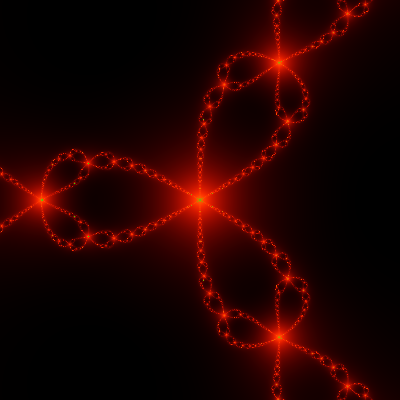
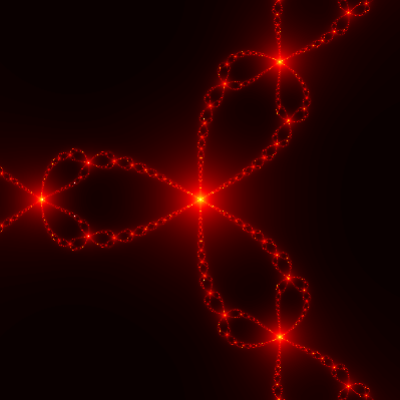
change colormap in newton.py

diff --git a/src/misc/newton.py b/src/misc/newton.py
@@ -1,5 +1,5 @@
 import numpy as np
-from PIL import Image
+import matplotlib.pyplot as plt
 from numba import jit
 
 
@@ -30,14 +30,11 @@ def render(imgsize):
     y = np.linspace(1, -1, imgsize)
     z = x[None, :] + y[:, None] * 1j
     img = np.frompyfunc(iterate, 1, 1)(z).astype(np.float)
-    img /= np.max(img)
-
-    # self-defined rgb channels, a mimick of matplotlib's hot colormap
-    red = np.sin(img * np.pi)
-    green = img * img
-    blue = np.zeros_like(img)
-    image = np.dstack((red, green, blue))
-    Image.fromarray(np.uint8(image*255)).save('newton.png')
+    fig = plt.figure(figsize=(imgsize/100.0, imgsize/100.0), dpi=100)
+    ax = fig.add_axes([0, 0, 1, 1], aspect=1)
+    ax.axis('off')
+    ax.imshow(img, cmap='hot')
+    fig.savefig('newton.png')
 
 
 if __name__ == '__main__':

diff --git a/src/misc/mandelbrot.py b/src/misc/mandelbrot.py
@@ -33,6 +33,6 @@ def main(xmin, xmax, ymin, ymax, width, height):
 if __name__ == '__main__':
     import time
     start = time.time()
-    main(-2.1, 0.8, -1.16, 1.16, 800, 640)
+    main(-2.1, 0.8, -1.16, 1.16, 2000, 1600)
     end = time.time()
     print('runtime: {:3f} seconds'.format(end - start))

diff --git a/src/maze/maze.py b/src/maze/maze.py
@@ -2,7 +2,6 @@
 Animating Wilson's uniform spanning tree algorithm on a 2d grid.
 '''
 
-from struct import pack
 import random
 from lzw import *
 
